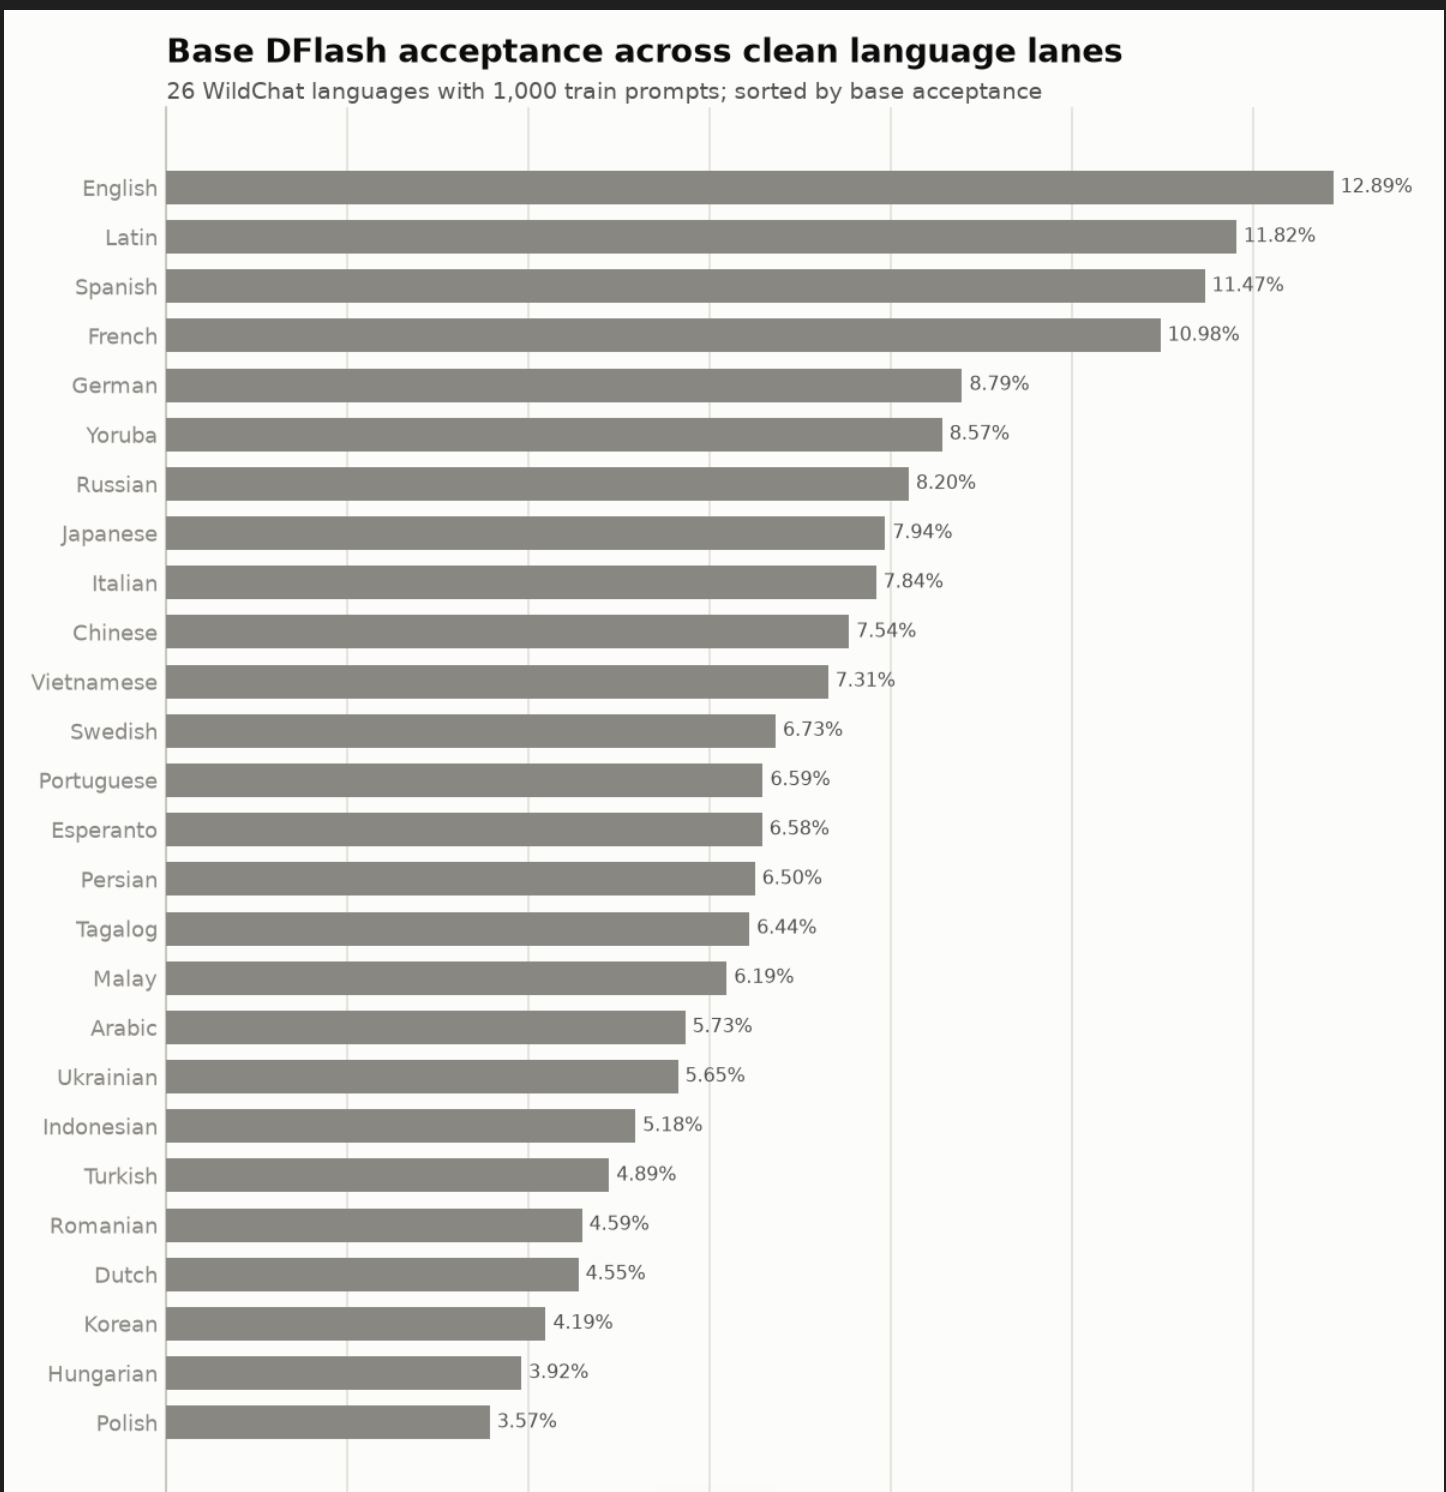
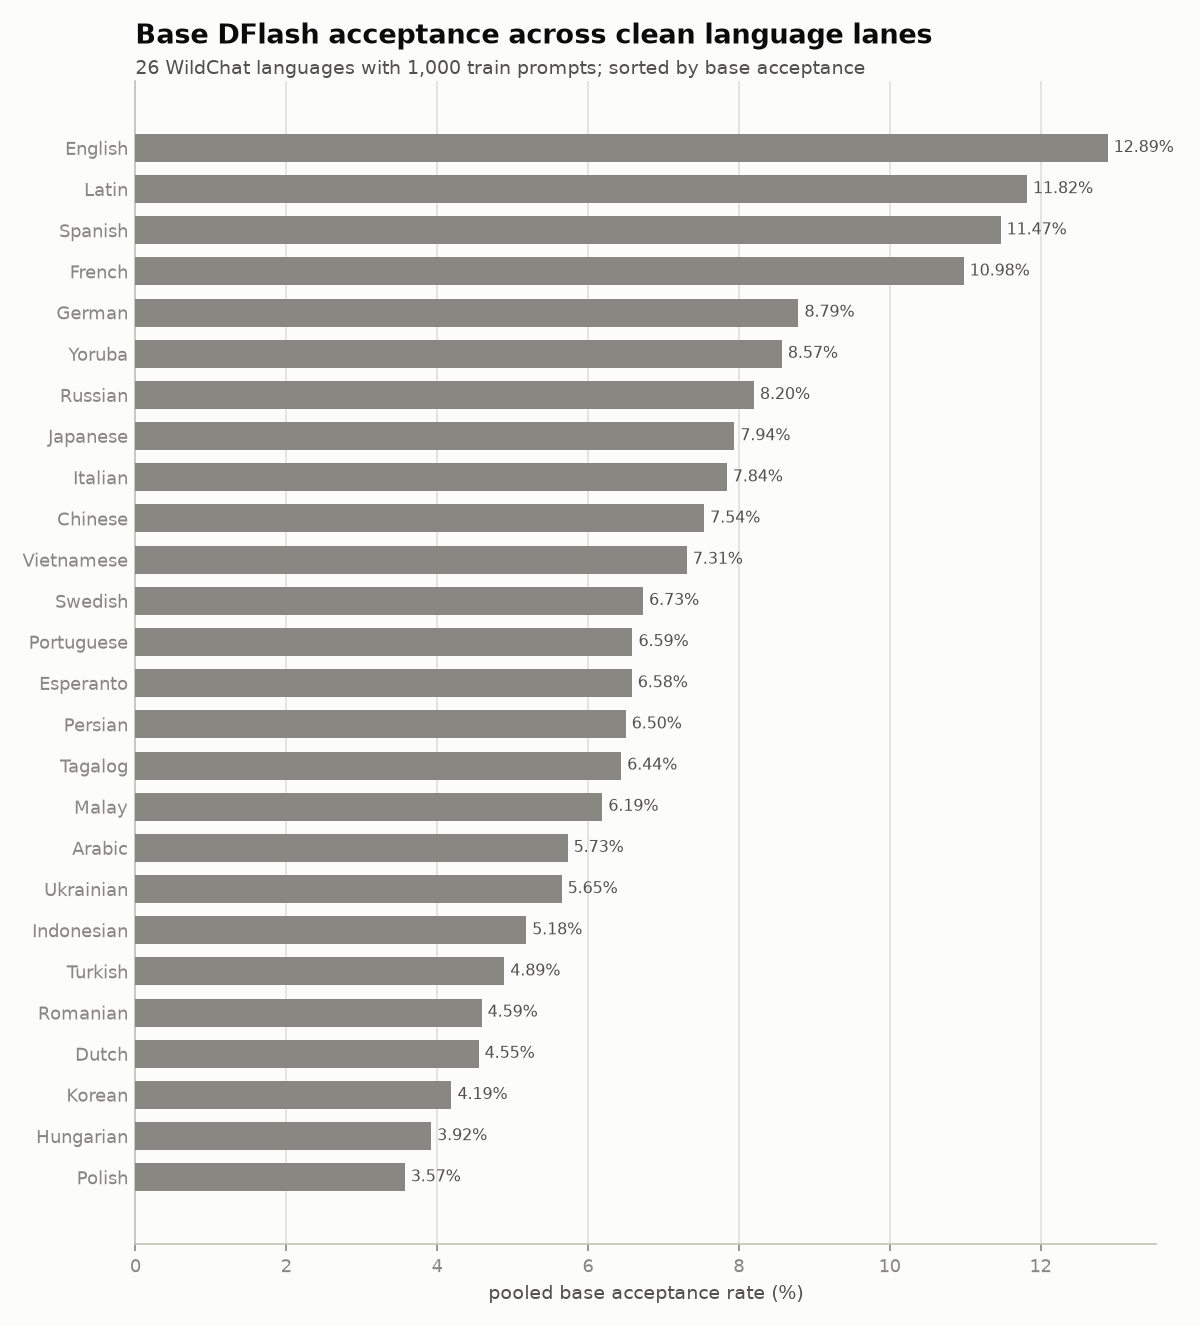
Polish SpecSpec draft post

diff --git a/styles.css b/styles.css
@@ -380,10 +380,10 @@ body[data-page="article"] .site-footer {
 
 .blog-content h2 {
   margin: 40px 0 14px;
-  font-size: 18px;
-  font-weight: 400;
+  font-size: 24px;
+  font-weight: 500;
   line-height: 1.25;
-  letter-spacing: -0.01em;
+  letter-spacing: 0;
 }
 
 .blog-body > h2:first-child {
@@ -392,15 +392,15 @@ body[data-page="article"] .site-footer {
 
 .blog-content h3 {
   margin: 32px 0 10px;
-  font-size: 15px;
-  font-weight: 400;
+  font-size: 18px;
+  font-weight: 500;
   line-height: 1.3;
 }
 
 .blog-content h4 {
   margin: 24px 0 8px;
-  font-size: 14px;
-  font-weight: 400;
+  font-size: 16px;
+  font-weight: 500;
   line-height: 1.3;
 }
 

diff --git a/content/blogs.js b/content/blogs.js
@@ -14,15 +14,15 @@ window.BLOG_POSTS = [
     hidden: true,
     status: "In Progress",
     authors: "Shrey Birmiwal and Anish Bhat",
-    summary: "In-progress private draft from the Google Doc on specializing speculative decoding drafters with LoRA adapters per language.",
+    summary: "In-progress private draft from the Google Doc on specializing speculative decoding drafters with LoRAs per language.",
     markdown: markdown(() => { /*
 
 # Specialization is maybe all Speculation needs
 
 
-TLDR: We made speculative decoding up to 15% faster per domain and generalized to 6% faster by specializing the drafter with LoRA adapters per language. However, we find that this technique is largely beneficial only for under-trained languages, and that a single combined LoRA captures most of the specialization gains. We theorize this is because of low interference between languages, and believe specialization will perform better in more fine-grained domains (future work).
+TLDR: We made speculative decoding up to 15% faster per domain and generalized to 6% faster by specializing the drafter with LoRAs per language. However, we find that this technique is largely beneficial only for under-trained languages, and that a single combined LoRA captures most of the specialization gains. We theorize this is because of low interference between languages, and believe specialization will perform better in more fine-grained domains (future work).
 ## What and why are we specializing?
-Speculative decoding is an inference technique in which a draft model is used to propose multiple tokens for the target model to verify all at once, instead of the target model having to generate one token at a time sequentially. For more information about how speculative decoding works, read this blog.
+Speculative decoding is an inference technique in which a draft model is used to propose multiple tokens for the target model to verify all at once, instead of the target model having to generate one token at a time sequentially. For more information about how speculative decoding works, read [this blog](https://jwlabs.vercel.app/post/speculative-decoding-first-principles).
 
 
 You can think of the speculator (the drafter) as an approximation for the verifier (the target). An important detail is that the drafter is not trying to be correct in an external sense, but rather trying to copy the verifier.

diff --git a/index.html b/index.html
@@ -14,7 +14,7 @@
   <meta name="twitter:card" content="summary" />
   <meta name="twitter:title" content="Research / JW Labs" />
   <meta name="twitter:description" content="JW Labs research." />
-  <link rel="stylesheet" href="/styles.css?v=20260722-tables" />
+  <link rel="stylesheet" href="/styles.css?v=20260723-headings" />
 </head>
 
 <body class="site" data-page="research">

diff --git a/post.html b/post.html
@@ -13,7 +13,7 @@
   <meta name="twitter:card" content="summary" />
   <meta name="twitter:title" content="JW Labs Research" />
   <meta name="twitter:description" content="JW Labs research post." />
-  <link rel="stylesheet" href="/styles.css?v=20260722-tables" />
+  <link rel="stylesheet" href="/styles.css?v=20260723-headings" />
   <link rel="stylesheet" href="https://cdn.jsdelivr.net/npm/katex@0.16.11/dist/katex.min.css" crossorigin="anonymous" />
 </head>
 

diff --git a/team.html b/team.html
@@ -14,7 +14,7 @@
   <meta name="twitter:card" content="summary" />
   <meta name="twitter:title" content="Team / JW Labs" />
   <meta name="twitter:description" content="JW Labs team." />
-  <link rel="stylesheet" href="/styles.css?v=20260722-tables" />
+  <link rel="stylesheet" href="/styles.css?v=20260723-headings" />
 </head>
 
 <body class="site" data-page="team">